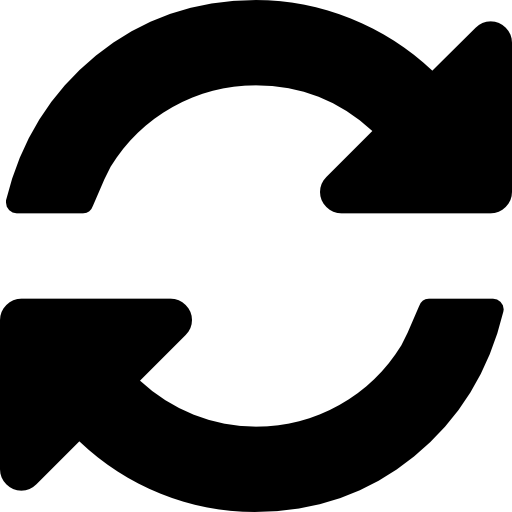
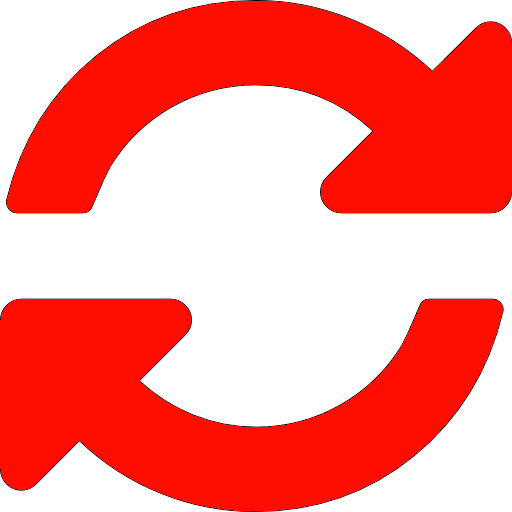
fonte e cores

diff --git a/CSS/tela_treino1.css b/CSS/tela_treino1.css
@@ -30,6 +30,7 @@ h1{
     justify-content: center;
     font-size: 50px;
     font-weight: bold;
+    font-family: "Ubuntu", sans-serif;
     
 }
 ul{
@@ -72,6 +73,7 @@ h2{
     width: 75%;
     height: 65%;
     font-size: 30px;
+    font-family: "Ubuntu", sans-serif;
 }
 
 .massa{
@@ -93,16 +95,19 @@ h2{
     position: absolute;
 }
 .ajuda{
+    color: #FF9933;
     text-align: center;
     bottom: 0;
     right: 0;
     width: 33%;
     height: 35%;
-    border: 5px solid black;
+    border: 5px solid #FF9933;
     border-radius: 20px;
     position: absolute;
+    font-family: "Ubuntu", sans-serif;
 }
 .trocar{
+    color: #ff0d00;
     display: flex;
     align-items: center;
     justify-content: space-around;
@@ -110,9 +115,10 @@ h2{
     right: 0;
     width: 25%;
     height: 25%;
-    border: 5px solid black;
+    border: 5px solid #ff0d00;
     border-radius: 20px;
     position: absolute;
+    font-family: "Ubuntu", sans-serif;
 }
 
 img{

diff --git a/CSS/tela_treinos.css b/CSS/tela_treinos.css
@@ -28,11 +28,13 @@ main{
     align-items: center;
     justify-content: space-between;
 }
+
 h1{
     display: flex;
     justify-content: center;
     font-size: 50px;
     font-weight: bold;
+    font-family: "Ubuntu", sans-serif;
     
 }
 
@@ -79,9 +81,11 @@ h2{
     font-size: 50px;
     font-weight: bold;
     font-style: italic;
+    font-family: "Ubuntu", sans-serif;
 
 }
 h3{
     width: 35%;
     height: 100%;
+    font-family: "Ubuntu", sans-serif;
 }

diff --git a/CSS/tela_objetivo.css b/CSS/tela_objetivo.css
@@ -32,6 +32,7 @@ h1{
     justify-content: center;
     font-size: 50px;
     font-weight: bold;
+    font-family: "Ubuntu", sans-serif;
 }
 .form{
     display: flex;

diff --git a/CSS/tela_nivel.css b/CSS/tela_nivel.css
@@ -29,6 +29,7 @@ h1{
     justify-content: center;
     font-size: 50px;
     font-weight: bold;
+    font-family: "Ubuntu", sans-serif;
     
 }
 form{

diff --git a/CSS/trocar_supino_barra_css.css b/CSS/trocar_supino_barra_css.css
@@ -33,6 +33,7 @@ h1{
     justify-content: center;
     font-size: 50px;
     font-weight: bold;
+    font-family: "Ubuntu", sans-serif;
     
     
 }
